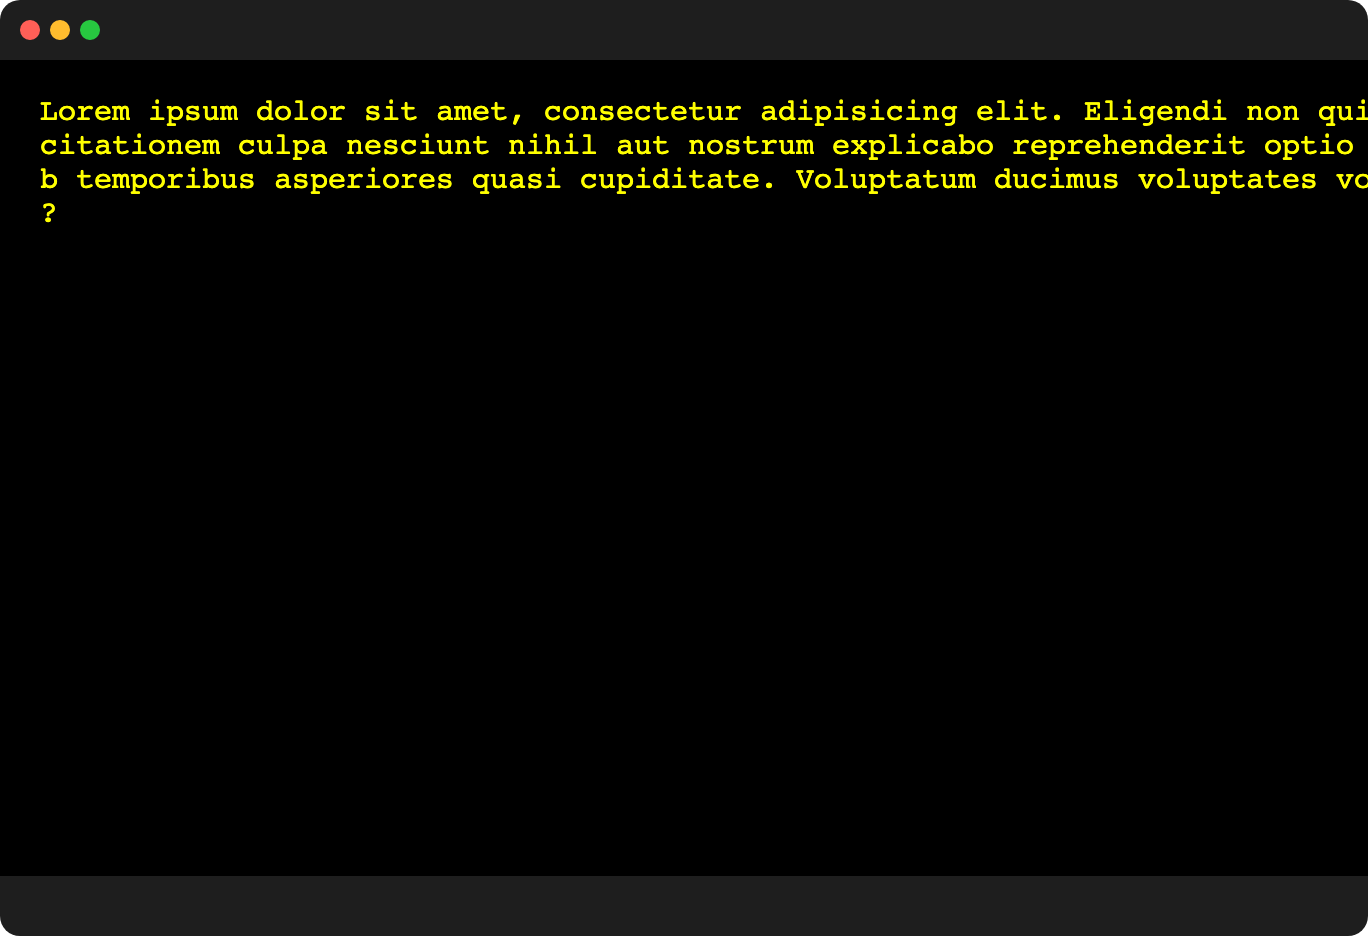
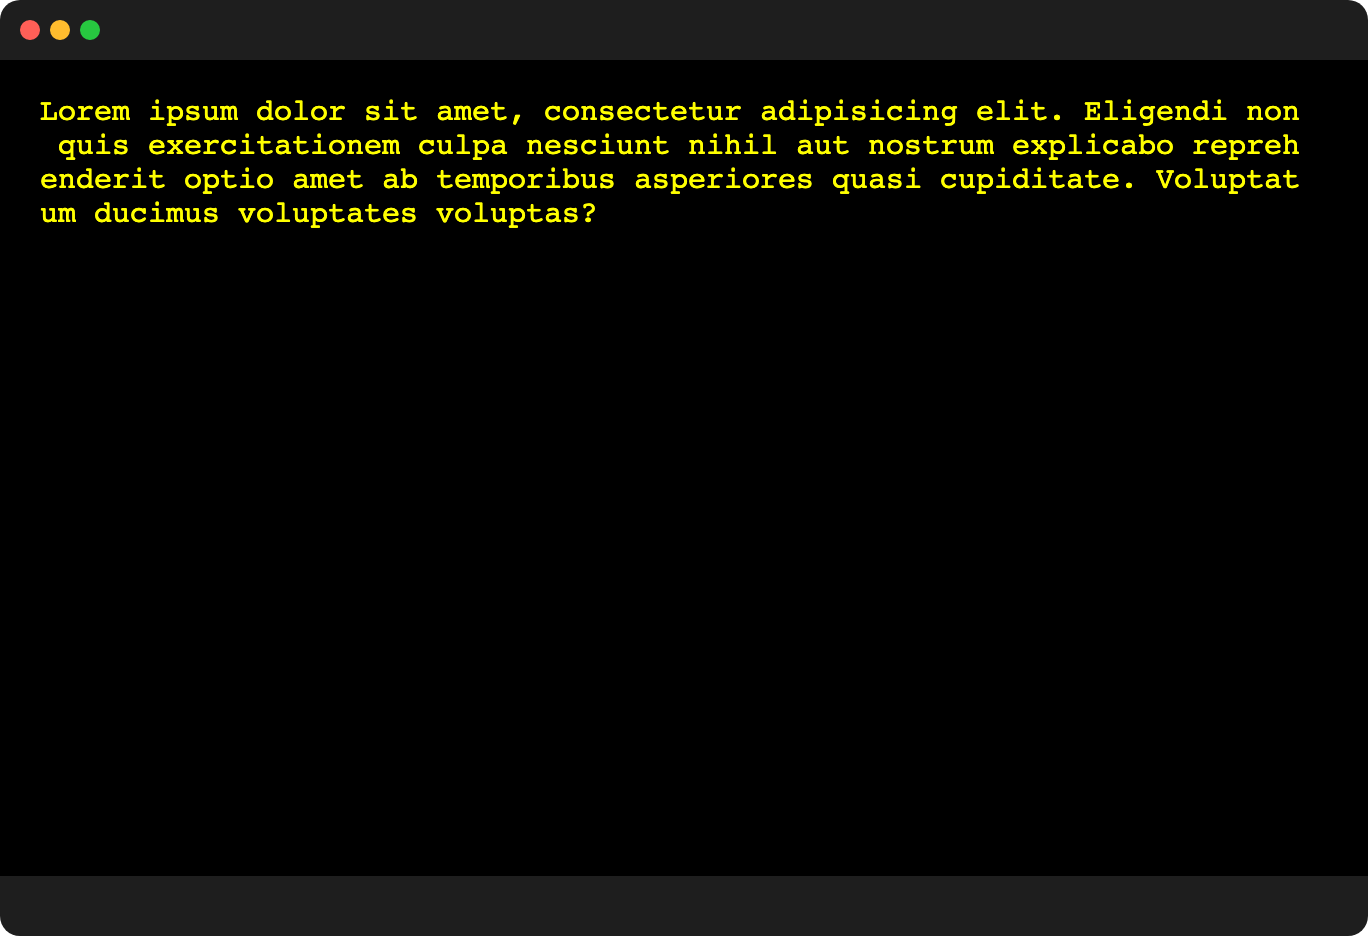
chore: refactor width

Changed region(s): [[0.0307, 0.0929, 1.0, 0.2479]]

diff --git a/tests/shellfie.test.js b/tests/shellfie.test.js
@@ -1,6 +1,5 @@
 const shellfie = require('../shellfie');
 const fancyExample = require('./fancy');
-const execute = require('util').promisify(require('child_process').exec);
 
 describe('shellfie', () => {
     it('should support array of string and output a png file', async () => {
@@ -82,7 +81,7 @@ describe('shellfie', () => {
         await shellfie(data, { name: '4 items', theme: { foreground: 'blue' } });
 
         const _data = "Lorem ipsum dolor sit amet, consectetur adipisicing elit. Eligendi non quis exercitationem culpa nesciunt nihil aut nostrum explicabo reprehenderit optio amet ab temporibus asperiores quasi cupiditate. Voluptatum ducimus voluptates voluptas?";
-        await shellfie(_data, { name: '5 items', theme: { foreground: 'yellow' } });
+        await shellfie(_data, { name: '5 items', theme: { foreground: 'yellow' },  });
     });
 
     it('should work with lolcat', async () => {
@@ -113,7 +112,7 @@ describe('shellfie', () => {
             "[38;2;60;254;68ml[39m[38;2;65;254;63mo[39m[38;2;69;254;59ml[39m[38;2;73;254;55mc[39m[38;2;77;254;52ma[39m[38;2;82;253;48mt[39m[38;2;86;252;44m [39m[38;2;91;251;41mh[39m[38;2;95;250;37mo[39m[38;2;100;249;34mm[39m[38;2;105;247;31me[39m[38;2;109;245;28m [39m[38;2;114;244;25mp[39m[38;2;119;242;22ma[39m[38;2;124;239;20mg[39m[38;2;128;237;17me[39m[38;2;133;235;15m:[39m[38;2;138;232;13m [39m[38;2;143;229;11m<[39m[38;2;147;226;9mh[39m[38;2;152;223;7mt[39m[38;2;157;220;6mt[39m[38;2;161;217;5mp[39m[38;2;166;213;3ms[39m[38;2;170;210;3m:[39m[38;2;175;206;2m/[39m[38;2;179;202;1m/[39m[38;2;183;198;1mg[39m[38;2;188;194;1mi[39m[38;2;192;190;1mt[39m[38;2;196;186;1mh[39m[38;2;200;182;1mu[39m[38;2;204;177;1mb[39m[38;2;207;173;2m.[39m[38;2;211;168;3mc[39m[38;2;215;164;4mo[39m[38;2;218;159;5mm[39m[38;2;221;155;6m/[39m[38;2;224;150;8mb[39m[38;2;227;145;10mu[39m[38;2;230;141;12ms[39m[38;2;233;136;14my[39m[38;2;236;131;16ml[39m[38;2;238;126;18mo[39m[38;2;240;122;21mo[39m[38;2;242;117;23mp[39m[38;2;244;112;26m/[39m[38;2;246;107;29ml[39m[38;2;248;103;32mo[39m[38;2;249;98;35ml[39m[38;2;250;93;39mc[39m[38;2;252;89;42ma[39m[38;2;253;84;46mt[39m[38;2;253;80;49m/[39m[38;2;254;76;53m>[39m[38;2;254;71;57m[39m",
             "[38;2;95;250;37mR[39m[38;2;100;249;34me[39m[38;2;105;247;31mp[39m[38;2;109;245;28mo[39m[38;2;114;244;25mr[39m[38;2;119;242;22mt[39m[38;2;124;239;20m [39m[38;2;128;237;17ml[39m[38;2;133;235;15mo[39m[38;2;138;232;13ml[39m[38;2;143;229;11mc[39m[38;2;147;226;9ma[39m[38;2;152;223;7mt[39m[38;2;157;220;6m [39m[38;2;161;217;5mt[39m[38;2;166;213;3mr[39m[38;2;170;210;3ma[39m[38;2;175;206;2mn[39m[38;2;179;202;1ms[39m[38;2;183;198;1ml[39m[38;2;188;194;1ma[39m[38;2;192;190;1mt[39m[38;2;196;186;1mi[39m[38;2;200;182;1mo[39m[38;2;204;177;1mn[39m[38;2;207;173;2m [39m[38;2;211;168;3mb[39m[38;2;215;164;4mu[39m[38;2;218;159;5mg[39m[38;2;221;155;6ms[39m[38;2;224;150;8m [39m[38;2;227;145;10mt[39m[38;2;230;141;12mo[39m[38;2;233;136;14m [39m[38;2;236;131;16m<[39m[38;2;238;126;18mh[39m[38;2;240;122;21mt[39m[38;2;242;117;23mt[39m[38;2;244;112;26mp[39m[38;2;246;107;29m:[39m[38;2;248;103;32m/[39m[38;2;249;98;35m/[39m[38;2;250;93;39ms[39m[38;2;252;89;42mp[39m[38;2;253;84;46me[39m[38;2;253;80;49ma[39m[38;2;254;76;53mk[39m[38;2;254;71;57ml[39m[38;2;254;67;61mo[39m[38;2;254;63;65ml[39m[38;2;254;59;69mc[39m[38;2;254;55;74ma[39m[38;2;254;51;78mt[39m[38;2;253;47;82m.[39m[38;2;252;44;87mc[39m[38;2;251;40;91mo[39m[38;2;250;37;96mm[39m[38;2;248;33;101m/[39m[38;2;247;30;105m>[39m[38;2;245;27;110m[39m"]
 
-        await shellfie(data, { name: 'lolcat', viewport: { width: 800, height: 2024 } });
+        await shellfie(data, { name: 'lolcat'});
     })
 
 });

diff --git a/shellfie.js b/shellfie.js
@@ -48,8 +48,11 @@ async function shellfie(data, { name, location, style, theme = defaultTheme, ext
 
             if (lines.length > 5) {
                 term.resize((Number(lines.length) * 4), Number(lines.length) + 3);
+            } else {
+                const {rows, cols} = term;
+                term.resize(cols - 10, rows)
             }
-
+            
         }, { lines, options: style ? { theme, ...style } : { theme } })
 
         // inject styles
